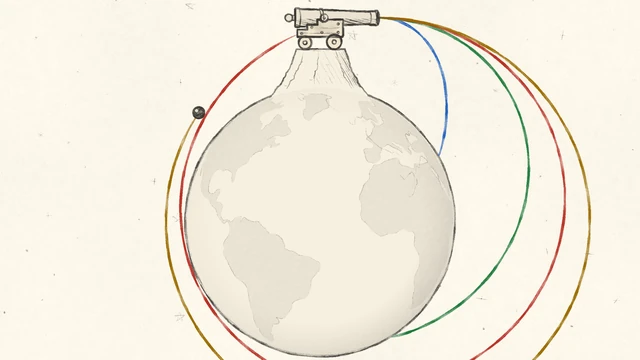
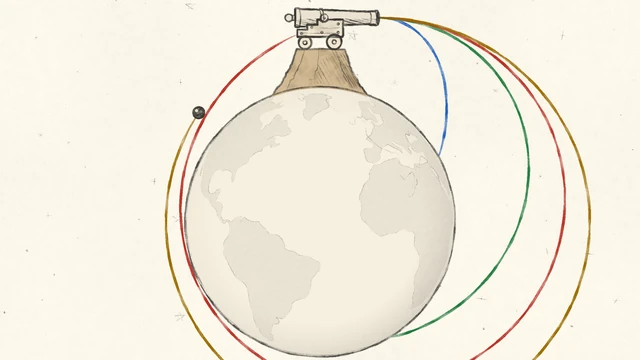
Newton's Cannonball Fire: Leo's final light mountain, thumb, and tiles
Swap in the warmer light mountain, the renamed light Try it thumb, and
Leo's lossy 2400 px space tiles (about 45 dB vs the PNG masters). The
seam check uses an absolute wrap cap so lossy encoding is allowed, and
the browser suite now takes light-mode stage shots on phones.

Changed region(s): [[0.4062, 0.1222, 0.5938, 0.275]]

diff --git a/tests/newtons-cannonball-fire-art.py b/tests/newtons-cannonball-fire-art.py
@@ -47,9 +47,12 @@ def main():
         arr = np.asarray(im)
         for axis, label in ((1, "x"), (0, "y")):
             wrap, neigh = edge_scores(arr, axis)
-            # Wrap difference should be no larger than a small multiple of the
-            # ordinary neighbor difference (Leo's own ratios were about 0.9-1.0).
-            ok = wrap <= neigh * 1.05 + 0.05
+            # Leo's PNG masters are periodic (wrap MAD ~ neighbor MAD, about 1.04-1.15).
+            # We ship his lossy webps (about 45 dB vs those PNGs). Lossy encoding
+            # smooths adjacent pixels, so the wrap/neighbor ratio rises even though
+            # the wrap MAD stays small (about 1.13-1.30). An absolute cap still
+            # catches a real color break at the edge.
+            ok = wrap <= 2.0
             check(ok, f"{theme} tile seam {label}: wrap {wrap:.3f} vs neighbor {neigh:.3f}")
 
     print(f"RESULT {passes} passed, {failures} failed")

diff --git a/tests/newtons-cannonball-fire-browser.py b/tests/newtons-cannonball-fire-browser.py
@@ -177,6 +177,12 @@ def run_module(ctx, base, tag, touch):
     else:
         shot(page, f"{tag}-01-sandbox-dark.png")
         stage_shot(page, f"{tag}-stage-empty-dark.png")
+        inp.tap(page.locator("#themeBtn"))
+        check(js(page, "() => document.documentElement.dataset.theme") == "light", f"{tag} theme toggle goes light")
+        light_name = "iphone-390-stage-light.png" if tag == "iphone-390" else f"{tag}-stage-empty-light.png"
+        stage_shot(page, light_name)
+        inp.tap(page.locator("#themeBtn"))
+        check(js(page, "() => document.documentElement.dataset.theme") == "dark", f"{tag} theme toggle back to dark")
 
     # Real drag on the launch-speed slider (scroll it fully on-screen first; on a phone the stage is tall)
     slider = page.locator("#speed")

diff --git a/public/newtons-cannonball-fire/art/README.md b/public/newtons-cannonball-fire/art/README.md
@@ -20,7 +20,7 @@ Draw order: space tile, earth, trails, mountain, barrel (with flash), carriage, 
 
 | File | Role |
 | --- | --- |
-| `space_tile_{dark,light}.webp` | 2400 px seamless tile, shown at 1600 |
+| `space_tile_{dark,light}.webp` | 2400 px seamless tile, shown at 1600. Leo's lossy webp (about 235 KB dark, 153 KB light; about 45 dB vs his PNG masters) |
 | `earth_{dark,light}.webp` | Round Earth, Atlantic continents |
 | `mountain_{dark,light}.webp` | Rocky butte on the limb, not to scale |
 | `cannon_barrel_{dark,light}.webp` | Barrel, rotates about the pivot |
